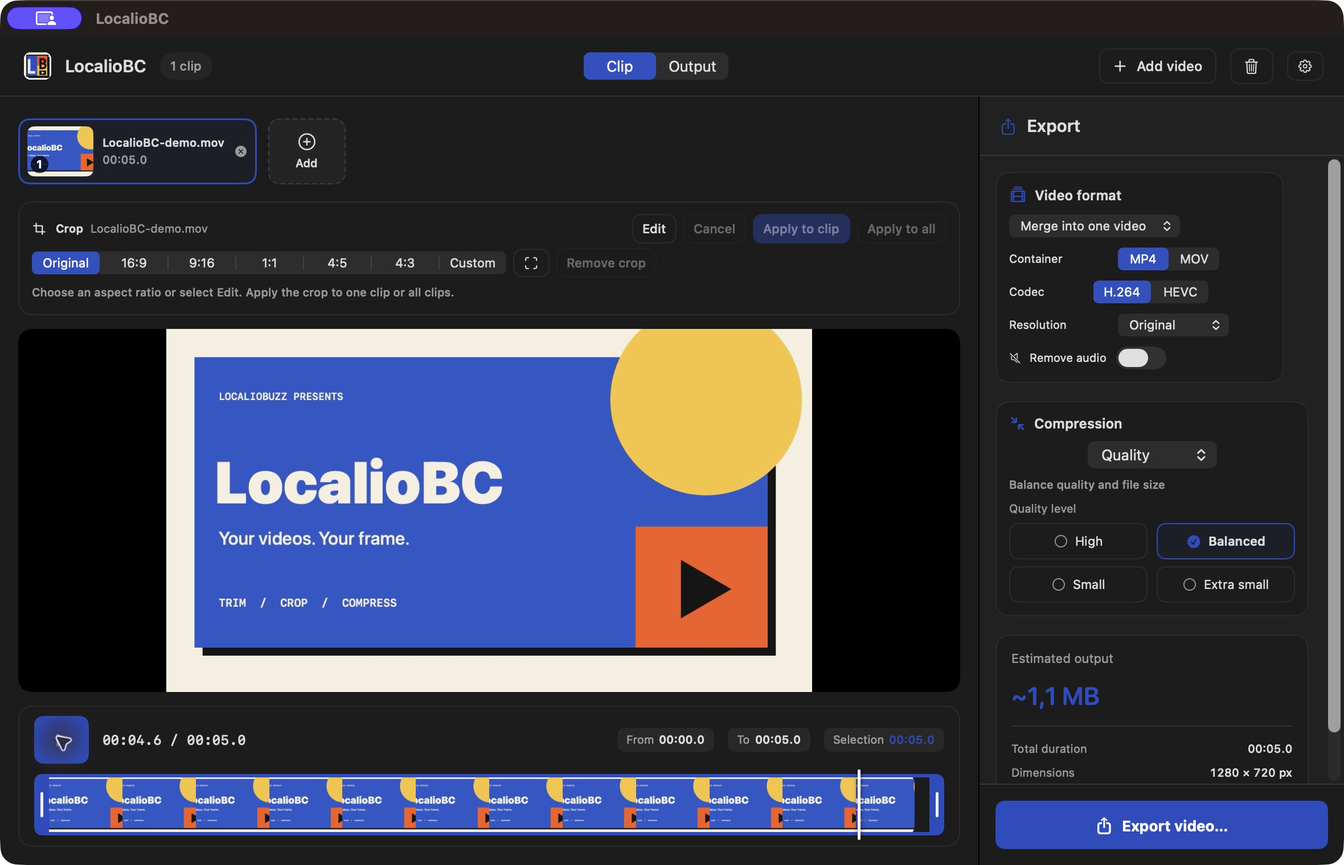
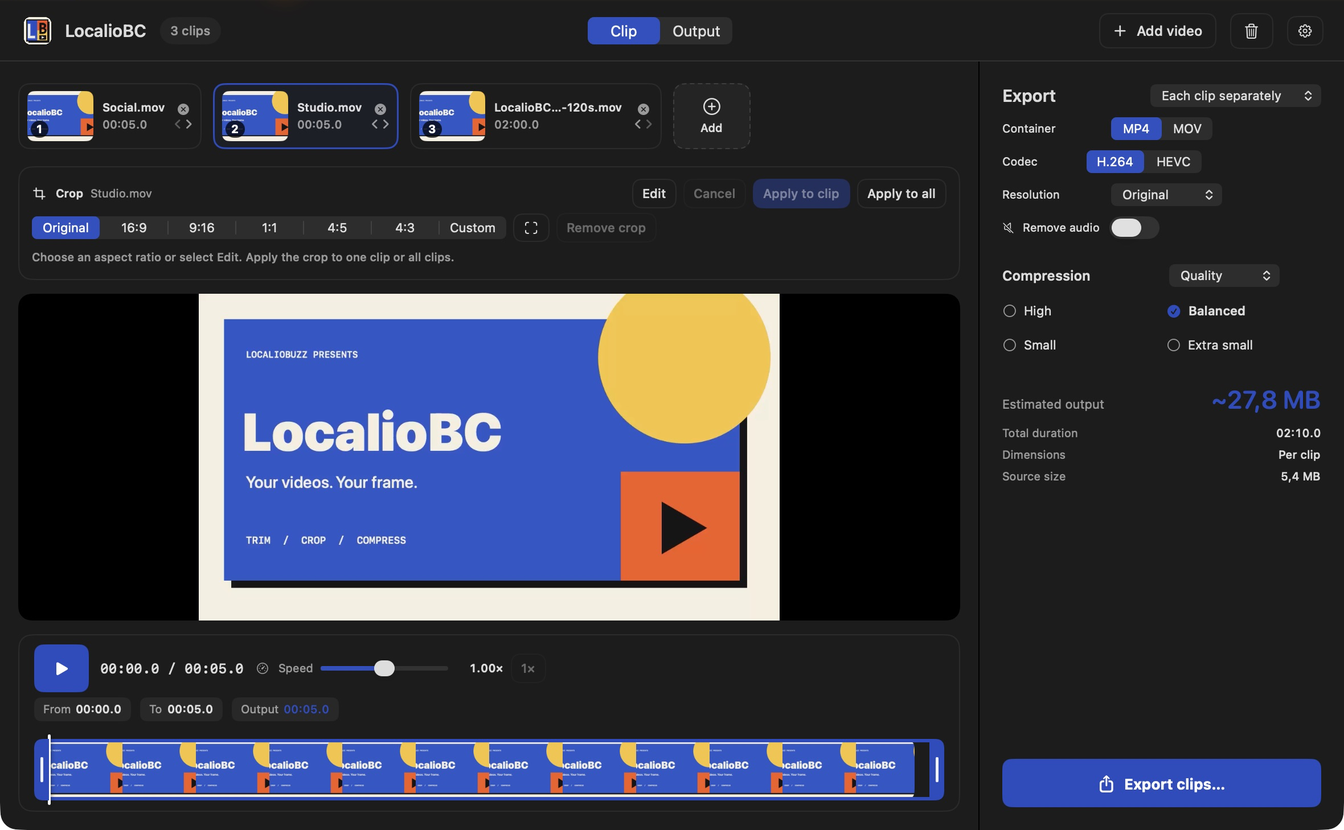
Publish 1.2.1 website and signed update feed

diff --git a/website/public/cs/index.html b/website/public/cs/index.html
@@ -1,1 +1,1 @@
-<!doctype html><html lang="cs"><head><meta charset="utf-8"><meta name="viewport" content="width=device-width,initial-scale=1"><title>LocalioBC — LocalioBC</title><meta name="description" content="Jednoduché a rychlé řešení pro ořez videa na Macu. Otevřete klip, vyberte výřez a exportujte. Podle potřeby video také zkraťte, zmenšete nebo spojte s dalšími klipy."><link rel="canonical" href="https://localiobc.mylocalio.com/cs/"><link rel="icon" href="/icon.png"><link rel="stylesheet" href="/style.css?v=64182aa29f"><script src="/motion.js?v=d87bd766ba" defer></script><link rel="stylesheet" href="/analytics.css"><script src="/analytics.js" defer></script></head><body><header><a class="brand" href="/cs/"><img src="/icon.png" alt="" width="44" height="44">LocalioBC</a><nav aria-label="Navigation"><a href="/cs/support/">Podpora</a><a href="/cs/privacy/">Soukromí</a><div class="language-switcher" role="group" aria-label="Jazyk"><a class="language-link" href="/" hreflang="en" lang="en" aria-label="English" title="English"><img src="/flag-gb.svg" alt="" width="24" height="16"><span class="sr-only">English</span></a><a class="language-link" href="/cs/" hreflang="cs" lang="cs" aria-label="Čeština" title="Čeština" aria-current="page"><img src="/flag-cz.svg" alt="" width="24" height="16"><span class="sr-only">Čeština</span></a></div></nav></header><main><section class="hero"><div class="hero-content"><span class="eyebrow">Vytvořeno pro váš Mac</span><h1>Rychlý ořez videa.<br>Bez složitostí.</h1><p class="lead">Jednoduché a rychlé řešení pro ořez videa na Macu. Otevřete klip, vyberte výřez a exportujte. Podle potřeby video také zkraťte, zmenšete nebo spojte s dalšími klipy.</p><a class="button" href="https://github.com/bradacz/LocalioBC/releases/download/v1.2.0/LocalioBC-1.2.0-universal.dmg">Stažení plné verze zdarma</a><p class="full-version-note">Všechny funkce jsou dostupné zdarma, bez časových limitů, placeného odemykání a vodoznaků.</p><p class="fine">Verze 1.2.0 · macOS 14 a novější · Apple Silicon i Intel · Bez předplatného</p><p class="fine">Verze pro Mac App Store: 4,99 € jednorázově. Připravujeme; schválení Applem zatím neproběhlo.</p></div><img class="hero-art" src="/hero-cut-crop.webp" srcset="/hero-cut-crop-600.webp 600w, /hero-cut-crop.webp 1200w" sizes="(max-width: 700px) calc(100vw - 44px), (max-width: 752px) calc(100vw - 72px), (max-width: 1000px) 680px, (max-width: 1240px) 58vw, 678px" width="1200" height="1200" alt="" aria-hidden="true" fetchpriority="high" decoding="async"></section><img class="screen" src="/editor-preview.png?v=e37b4abd8f" loading="lazy" decoding="async" alt="Anglické rozhraní LocalioBC s náhledem videa, ořezem a nastavením exportu" width="2584" height="1744"><section class="grid" aria-labelledby="features-title"><h2 id="features-title" class="sr-only">Co aplikace umí</h2><article class="feature"><span class="number">01</span><h3>Přesný střih</h3><p>Nastavte začátek a konec každého klipu pomocí časové osy s náhledy.</p></article><article class="feature"><span class="number">02</span><h3>Správný výřez</h3><p>Vyberte poměr stran nebo vlastní výřez. Stejný ořez můžete použít na všechny klipy.</p></article><article class="feature"><span class="number">03</span><h3>Export podle vás</h3><p>Spojte klipy nebo vytvořte samostatné očíslované soubory. MP4/MOV, H.264/HEVC a volba kvality či cílové velikosti.</p></article></section><section class="release-news" aria-labelledby="news-title"><div class="news-heading"><h2 id="news-title">Novinky</h2><span class="release-tag">LocalioBC 1.2.0</span></div><article class="release-card"><div class="release-meta"><time datetime="2026-11-15">15. listopadu 2026</time><span>Nová verze</span></div><h3>Rychlost pod kontrolou. Aktualizace snadno.</h3><p>Rychlost nastavíte plynulým posuvníkem od 0,25× do 4×; tlačítko 1× ji vrátí na původní hodnotu. Bezplatná verze stažená z webu nově nabízí volitelné aktualizace přímo v aplikaci.</p><ul><li>Povolte denní kontroly aktualizací, nebo kdykoli zvolte LocalioBC → Zkontrolovat aktualizace…</li><li>Automatické stahování je volitelné. Instalace počká během exportu a před zahozením rozpracovaných úprav si vyžádá potvrzení.</li><li>Verze z Mac App Storu dostává aktualizace prostřednictvím Apple.</li></ul><p class="fine">Používáte verzi 1.1.0 nebo starší? Stáhněte a nainstalujte 1.2.0 jednou ručně. Starší verze nemají zabudovaný aktualizátor; další aktualizace pak můžete přijímat přímo v aplikaci.</p><a class="release-link" href="https://github.com/bradacz/LocalioBC/releases/download/v1.2.0/LocalioBC-1.2.0-universal.dmg">Stáhnout verzi 1.2.0 <span aria-hidden="true">↗</span></a></article><article class="release-card"><div class="release-meta"><time datetime="2026-11-14">14. listopadu 2026</time><span>Verze 1.1.0</span></div><h3>Vaše video, vaším tempem.</h3><p>Zpomalte důležitý okamžik nebo zrychlete delší záběr. U každého klipu nově nastavíte rychlost od 0,25× do 4× přímo vedle přehrávání.</p><ul><li>Stejná rychlost v náhledu i v exportovaném videu.</li><li>Obraz i zvuk zůstávají synchronizované; tón zvuku se mění s rychlostí.</li><li>Výsledná délka a odhad velikosti se průběžně přepočítají.</li></ul><a class="release-link" href="https://github.com/bradacz/LocalioBC/releases/download/v1.1.0/LocalioBC-1.1.0-universal.dmg">Stáhnout verzi 1.1.0 <span aria-hidden="true">↗</span></a></article></section><section class="notice"><h2 style="margin-top:0">Vaše videa zůstávají vaše</h2><p>Bez účtu, nahrávání na server, reklam a vodoznaků. LocalioBC funguje offline. Český systém automaticky použije češtinu, ostatní jazyky angličtinu. Volbu můžete změnit v nastavení.</p><a href="/cs/privacy/">Zásady ochrany soukromí</a></section></main><footer><span>© 2026 Localio Labs s.r.o. · LocalioBC</span><span><a href="mailto:info@mylocalio.com">info@mylocalio.com</a> · <a href="https://mylocalio.com">MyLocalio</a> · <a href="https://www.localiobuzz.com">LocalioBuzz</a> · <a href="https://github.com/bradacz/LocalioBC">GitHub</a></span></footer></body></html>
+<!doctype html><html lang="cs"><head><meta charset="utf-8"><meta name="viewport" content="width=device-width,initial-scale=1"><title>LocalioBC — LocalioBC</title><meta name="description" content="Jednoduché a rychlé řešení pro ořez videa na Macu. Otevřete klip, vyberte výřez a exportujte. Podle potřeby video také zkraťte, zmenšete nebo spojte s dalšími klipy."><link rel="canonical" href="https://localiobc.mylocalio.com/cs/"><link rel="icon" href="/icon.png"><link rel="stylesheet" href="/style.css?v=64182aa29f"><script src="/motion.js?v=d87bd766ba" defer></script><link rel="stylesheet" href="/analytics.css"><script src="/analytics.js" defer></script></head><body><header><a class="brand" href="/cs/"><img src="/icon.png" alt="" width="44" height="44">LocalioBC</a><nav aria-label="Navigation"><a href="/cs/support/">Podpora</a><a href="/cs/privacy/">Soukromí</a><div class="language-switcher" role="group" aria-label="Jazyk"><a class="language-link" href="/" hreflang="en" lang="en" aria-label="English" title="English"><img src="/flag-gb.svg" alt="" width="24" height="16"><span class="sr-only">English</span></a><a class="language-link" href="/cs/" hreflang="cs" lang="cs" aria-label="Čeština" title="Čeština" aria-current="page"><img src="/flag-cz.svg" alt="" width="24" height="16"><span class="sr-only">Čeština</span></a></div></nav></header><main><section class="hero"><div class="hero-content"><span class="eyebrow">Vytvořeno pro váš Mac</span><h1>Rychlý ořez videa.<br>Bez složitostí.</h1><p class="lead">Jednoduché a rychlé řešení pro ořez videa na Macu. Otevřete klip, vyberte výřez a exportujte. Podle potřeby video také zkraťte, zmenšete nebo spojte s dalšími klipy.</p><a class="button" href="https://github.com/bradacz/LocalioBC/releases/download/v1.2.1/LocalioBC-1.2.1-universal.dmg">Stažení plné verze zdarma</a><p class="full-version-note">Všechny funkce jsou dostupné zdarma, bez časových limitů, placeného odemykání a vodoznaků.</p><p class="fine">Verze 1.2.1 · macOS 14 a novější · Apple Silicon i Intel · Bez předplatného</p><p class="fine">Verze pro Mac App Store: 4,99 € jednorázově. Připravujeme; schválení Applem zatím neproběhlo.</p></div><img class="hero-art" src="/hero-cut-crop.webp" srcset="/hero-cut-crop-600.webp 600w, /hero-cut-crop.webp 1200w" sizes="(max-width: 700px) calc(100vw - 44px), (max-width: 752px) calc(100vw - 72px), (max-width: 1000px) 680px, (max-width: 1240px) 58vw, 678px" width="1200" height="1200" alt="" aria-hidden="true" fetchpriority="high" decoding="async"></section><img class="screen" src="/editor-preview.png?v=1.2.1" loading="lazy" decoding="async" alt="České rozhraní LocalioBC s náhledem videa, ořezem a nastavením exportu" width="2360" height="1458"><section class="grid" aria-labelledby="features-title"><h2 id="features-title" class="sr-only">Co aplikace umí</h2><article class="feature"><span class="number">01</span><h3>Přesný střih</h3><p>Nastavte začátek a konec každého klipu pomocí časové osy s náhledy.</p></article><article class="feature"><span class="number">02</span><h3>Správný výřez</h3><p>Vyberte poměr stran nebo vlastní výřez. Stejný ořez můžete použít na všechny klipy.</p></article><article class="feature"><span class="number">03</span><h3>Export podle vás</h3><p>Spojte klipy nebo vytvořte samostatné očíslované soubory. MP4/MOV, H.264/HEVC a volba kvality či cílové velikosti.</p></article></section><section class="release-news" aria-labelledby="news-title"><div class="news-heading"><h2 id="news-title">Novinky</h2><span class="release-tag">LocalioBC 1.2.1</span></div><article class="release-card"><div class="release-meta"><time datetime="2026-11-15">15. listopadu 2026</time><span>Nová verze</span></div><h3>Čistší a přehlednější export.</h3><p>Formát, komprese, odhad velikosti i tlačítko exportu jsou společně v jednoduchém, vzdušném panelu.</p><ul><li>Přehledné rozestupy a čitelné popisky usnadňují orientaci.</li><li>Všechny volby exportu zůstávají viditelné bez posouvání i při nejmenší velikosti okna.</li><li>Jednotné uspořádání v češtině i angličtině, ve světlém i tmavém vzhledu.</li></ul><p class="fine">Používáte 1.2.0? Zvolte LocalioBC → Zkontrolovat aktualizace… Pokud máte 1.1.0 nebo starší, stáhněte a nainstalujte 1.2.1 jednou ručně; další aktualizace pak můžete přijímat přímo v aplikaci.</p><a class="release-link" href="https://github.com/bradacz/LocalioBC/releases/download/v1.2.1/LocalioBC-1.2.1-universal.dmg">Stáhnout verzi 1.2.1 <span aria-hidden="true">↗</span></a></article><article class="release-card"><div class="release-meta"><time datetime="2026-11-15">15. listopadu 2026</time><span>Verze 1.2.0</span></div><h3>Rychlost pod kontrolou. Aktualizace snadno.</h3><p>Rychlost nastavíte plynulým posuvníkem od 0,25× do 4×; tlačítko 1× ji vrátí na původní hodnotu. Bezplatná verze stažená z webu nově nabízí volitelné aktualizace přímo v aplikaci.</p><ul><li>Povolte denní kontroly aktualizací, nebo kdykoli zvolte LocalioBC → Zkontrolovat aktualizace…</li><li>Automatické stahování je volitelné. Instalace počká během exportu a před zahozením rozpracovaných úprav si vyžádá potvrzení.</li><li>Verze z Mac App Storu dostává aktualizace prostřednictvím Apple.</li></ul><p class="fine">Používáte verzi 1.1.0 nebo starší? Stáhněte a nainstalujte 1.2.0 jednou ručně. Starší verze nemají zabudovaný aktualizátor; další aktualizace pak můžete přijímat přímo v aplikaci.</p><a class="release-link" href="https://github.com/bradacz/LocalioBC/releases/download/v1.2.0/LocalioBC-1.2.0-universal.dmg">Stáhnout verzi 1.2.0 <span aria-hidden="true">↗</span></a></article><article class="release-card"><div class="release-meta"><time datetime="2026-11-14">14. listopadu 2026</time><span>Verze 1.1.0</span></div><h3>Vaše video, vaším tempem.</h3><p>Zpomalte důležitý okamžik nebo zrychlete delší záběr. U každého klipu nově nastavíte rychlost od 0,25× do 4× přímo vedle přehrávání.</p><ul><li>Stejná rychlost v náhledu i v exportovaném videu.</li><li>Obraz i zvuk zůstávají synchronizované; tón zvuku se mění s rychlostí.</li><li>Výsledná délka a odhad velikosti se průběžně přepočítají.</li></ul><a class="release-link" href="https://github.com/bradacz/LocalioBC/releases/download/v1.1.0/LocalioBC-1.1.0-universal.dmg">Stáhnout verzi 1.1.0 <span aria-hidden="true">↗</span></a></article></section><section class="notice"><h2 style="margin-top:0">Vaše videa zůstávají vaše</h2><p>Bez účtu, nahrávání na server, reklam a vodoznaků. LocalioBC funguje offline. Český systém automaticky použije češtinu, ostatní jazyky angličtinu. Volbu můžete změnit v nastavení.</p><a href="/cs/privacy/">Zásady ochrany soukromí</a></section></main><footer><span>© 2026 Localio Labs s.r.o. · LocalioBC</span><span><a href="mailto:info@mylocalio.com">info@mylocalio.com</a> · <a href="https://mylocalio.com">MyLocalio</a> · <a href="https://www.localiobuzz.com">LocalioBuzz</a> · <a href="https://github.com/bradacz/LocalioBC">GitHub</a></span></footer></body></html>

diff --git a/website/public/index.html b/website/public/index.html
@@ -1,1 +1,1 @@
-<!doctype html><html lang="en"><head><meta name="google-site-verification" content="hdwgwZXomSelE7Z3OD8sIeKytn7xXKj9p7vyfUrVinE"><meta charset="utf-8"><meta name="viewport" content="width=device-width,initial-scale=1"><title>LocalioBC — LocalioBC</title><meta name="description" content="A simple, quick way to crop video on your Mac. Open a clip, pick the frame and export. Trim, compress or combine your clips when you need more."><link rel="canonical" href="https://localiobc.mylocalio.com/"><link rel="icon" href="/icon.png"><link rel="stylesheet" href="/style.css?v=64182aa29f"><script src="/motion.js?v=d87bd766ba" defer></script><link rel="stylesheet" href="/analytics.css"><script src="/analytics.js" defer></script></head><body><header><a class="brand" href="/"><img src="/icon.png" alt="" width="44" height="44">LocalioBC</a><nav aria-label="Navigation"><a href="/support/">Support</a><a href="/privacy/">Privacy</a><div class="language-switcher" role="group" aria-label="Language"><a class="language-link" href="/" hreflang="en" lang="en" aria-label="English" title="English" aria-current="page"><img src="/flag-gb.svg" alt="" width="24" height="16"><span class="sr-only">English</span></a><a class="language-link" href="/cs/" hreflang="cs" lang="cs" aria-label="Čeština" title="Čeština"><img src="/flag-cz.svg" alt="" width="24" height="16"><span class="sr-only">Čeština</span></a></div></nav></header><main><section class="hero"><div class="hero-content"><span class="eyebrow">Made for your Mac</span><h1>Quick video crops.<br>Made simple.</h1><p class="lead">A simple, quick way to crop video on your Mac. Open a clip, pick the frame and export. Trim, compress or combine your clips when you need more.</p><a class="button" href="https://github.com/bradacz/LocalioBC/releases/download/v1.2.0/LocalioBC-1.2.0-universal.dmg">Download the full version free</a><p class="full-version-note">All features are included free, with no time limits, paid unlocks or watermarks.</p><p class="fine">Version 1.2.0 · macOS 14 or later · Apple Silicon & Intel · No subscription</p><p class="fine">Mac App Store edition: €4.99, one-time purchase. Coming soon; Apple review is pending.</p></div><img class="hero-art" src="/hero-cut-crop.webp" srcset="/hero-cut-crop-600.webp 600w, /hero-cut-crop.webp 1200w" sizes="(max-width: 700px) calc(100vw - 44px), (max-width: 752px) calc(100vw - 72px), (max-width: 1000px) 680px, (max-width: 1240px) 58vw, 678px" width="1200" height="1200" alt="" aria-hidden="true" fetchpriority="high" decoding="async"></section><img class="screen" src="/editor-preview.png?v=e37b4abd8f" loading="lazy" decoding="async" alt="LocalioBC video editor — English interface" width="2584" height="1744"><section class="grid" aria-labelledby="features-title"><h2 id="features-title" class="sr-only">What you can do</h2><article class="feature"><span class="number">01</span><h3>Trim precisely</h3><p>Set the start and end of each clip with a thumbnail timeline and accurate seeking.</p></article><article class="feature"><span class="number">02</span><h3>Find the right frame</h3><p>Choose common aspect ratios or a custom crop. Apply the same crop to every clip.</p></article><article class="feature"><span class="number">03</span><h3>Export your way</h3><p>Combine clips or create separate numbered files. Choose MP4/MOV, H.264/HEVC and quality or target-size settings.</p></article></section><section class="release-news" aria-labelledby="news-title"><div class="news-heading"><h2 id="news-title">What’s new</h2><span class="release-tag">LocalioBC 1.2.0</span></div><article class="release-card"><div class="release-meta"><time datetime="2026-11-15">November 15, 2026</time><span>New release</span></div><h3>Precise speed. Updates made easy.</h3><p>Dial in the exact pace with a continuous 0.25×–4× speed slider, or return to normal with 1×. The free direct-download edition now includes optional updates powered by Sparkle.</p><ul><li>Opt in to daily update checks, or use LocalioBC → Check for Updates… whenever you choose.</li><li>Automatic downloads are optional. Installation waits during exports and asks before discarding open session edits.</li><li>The Mac App Store edition receives its updates through Apple.</li></ul><p class="fine">Using 1.1.0 or earlier? Download and install 1.2.0 once manually. Those versions have no built-in updater; you can receive later updates directly in the app.</p><a class="release-link" href="https://github.com/bradacz/LocalioBC/releases/download/v1.2.0/LocalioBC-1.2.0-universal.dmg">Download version 1.2.0 <span aria-hidden="true">↗</span></a></article><article class="release-card"><div class="release-meta"><time datetime="2026-11-14">November 14, 2026</time><span>Version 1.1.0</span></div><h3>Your video, at your pace.</h3><p>Slow down an important moment or speed up a longer shot. Set each clip’s speed from 0.25× to 4×, right beside the playback controls.</p><ul><li>The same speed in the preview and exported video.</li><li>Picture and sound stay in sync; audio pitch changes with speed.</li><li>Output duration and estimated file size update as you edit.</li></ul><a class="release-link" href="https://github.com/bradacz/LocalioBC/releases/download/v1.1.0/LocalioBC-1.1.0-universal.dmg">Download version 1.1.0 <span aria-hidden="true">↗</span></a></article></section><section class="notice"><h2 style="margin-top:0">Your media stays yours</h2><p>No account, uploads, ads or watermarks. LocalioBC works offline. Language follows your system: Czech for Czech systems, English for other languages. You can change it in Settings.</p><a href="/privacy/">Privacy Policy</a></section></main><footer><span>© 2026 Localio Labs s.r.o. · LocalioBC</span><span><a href="mailto:info@mylocalio.com">info@mylocalio.com</a> · <a href="https://mylocalio.com">MyLocalio</a> · <a href="https://www.localiobuzz.com">LocalioBuzz</a> · <a href="https://github.com/bradacz/LocalioBC">GitHub</a></span></footer></body></html>
+<!doctype html><html lang="en"><head><meta name="google-site-verification" content="hdwgwZXomSelE7Z3OD8sIeKytn7xXKj9p7vyfUrVinE"><meta charset="utf-8"><meta name="viewport" content="width=device-width,initial-scale=1"><title>LocalioBC — LocalioBC</title><meta name="description" content="A simple, quick way to crop video on your Mac. Open a clip, pick the frame and export. Trim, compress or combine your clips when you need more."><link rel="canonical" href="https://localiobc.mylocalio.com/"><link rel="icon" href="/icon.png"><link rel="stylesheet" href="/style.css?v=64182aa29f"><script src="/motion.js?v=d87bd766ba" defer></script><link rel="stylesheet" href="/analytics.css"><script src="/analytics.js" defer></script></head><body><header><a class="brand" href="/"><img src="/icon.png" alt="" width="44" height="44">LocalioBC</a><nav aria-label="Navigation"><a href="/support/">Support</a><a href="/privacy/">Privacy</a><div class="language-switcher" role="group" aria-label="Language"><a class="language-link" href="/" hreflang="en" lang="en" aria-label="English" title="English" aria-current="page"><img src="/flag-gb.svg" alt="" width="24" height="16"><span class="sr-only">English</span></a><a class="language-link" href="/cs/" hreflang="cs" lang="cs" aria-label="Čeština" title="Čeština"><img src="/flag-cz.svg" alt="" width="24" height="16"><span class="sr-only">Čeština</span></a></div></nav></header><main><section class="hero"><div class="hero-content"><span class="eyebrow">Made for your Mac</span><h1>Quick video crops.<br>Made simple.</h1><p class="lead">A simple, quick way to crop video on your Mac. Open a clip, pick the frame and export. Trim, compress or combine your clips when you need more.</p><a class="button" href="https://github.com/bradacz/LocalioBC/releases/download/v1.2.1/LocalioBC-1.2.1-universal.dmg">Download the full version free</a><p class="full-version-note">All features are included free, with no time limits, paid unlocks or watermarks.</p><p class="fine">Version 1.2.1 · macOS 14 or later · Apple Silicon & Intel · No subscription</p><p class="fine">Mac App Store edition: €4.99, one-time purchase. Coming soon; Apple review is pending.</p></div><img class="hero-art" src="/hero-cut-crop.webp" srcset="/hero-cut-crop-600.webp 600w, /hero-cut-crop.webp 1200w" sizes="(max-width: 700px) calc(100vw - 44px), (max-width: 752px) calc(100vw - 72px), (max-width: 1000px) 680px, (max-width: 1240px) 58vw, 678px" width="1200" height="1200" alt="" aria-hidden="true" fetchpriority="high" decoding="async"></section><img class="screen" src="/editor-preview.png?v=1.2.1" loading="lazy" decoding="async" alt="LocalioBC video editor — Czech interface" width="2360" height="1458"><section class="grid" aria-labelledby="features-title"><h2 id="features-title" class="sr-only">What you can do</h2><article class="feature"><span class="number">01</span><h3>Trim precisely</h3><p>Set the start and end of each clip with a thumbnail timeline and accurate seeking.</p></article><article class="feature"><span class="number">02</span><h3>Find the right frame</h3><p>Choose common aspect ratios or a custom crop. Apply the same crop to every clip.</p></article><article class="feature"><span class="number">03</span><h3>Export your way</h3><p>Combine clips or create separate numbered files. Choose MP4/MOV, H.264/HEVC and quality or target-size settings.</p></article></section><section class="release-news" aria-labelledby="news-title"><div class="news-heading"><h2 id="news-title">What’s new</h2><span class="release-tag">LocalioBC 1.2.1</span></div><article class="release-card"><div class="release-meta"><time datetime="2026-11-15">November 15, 2026</time><span>New release</span></div><h3>A cleaner, clearer export panel.</h3><p>Format, compression, file-size estimates and the export action sit together in a simple, open layout.</p><ul><li>Clear spacing and readable labels keep the controls easy to scan.</li><li>Export controls stay visible without scrolling, even at the minimum window size.</li><li>A consistent layout in English and Czech, in light and dark appearance.</li></ul><p class="fine">Using 1.2.0? Choose LocalioBC → Check for Updates… to get this release. If you use 1.1.0 or earlier, download and install 1.2.1 manually once to receive future updates in the app.</p><a class="release-link" href="https://github.com/bradacz/LocalioBC/releases/download/v1.2.1/LocalioBC-1.2.1-universal.dmg">Download version 1.2.1 <span aria-hidden="true">↗</span></a></article><article class="release-card"><div class="release-meta"><time datetime="2026-11-15">November 15, 2026</time><span>Version 1.2.0</span></div><h3>Precise speed. Updates made easy.</h3><p>Dial in the exact pace with a continuous 0.25×–4× speed slider, or return to normal with 1×. The free direct-download edition now includes optional updates powered by Sparkle.</p><ul><li>Opt in to daily update checks, or use LocalioBC → Check for Updates… whenever you choose.</li><li>Automatic downloads are optional. Installation waits during exports and asks before discarding open session edits.</li><li>The Mac App Store edition receives its updates through Apple.</li></ul><p class="fine">Using 1.1.0 or earlier? Download and install 1.2.0 once manually. Those versions have no built-in updater; you can receive later updates directly in the app.</p><a class="release-link" href="https://github.com/bradacz/LocalioBC/releases/download/v1.2.0/LocalioBC-1.2.0-universal.dmg">Download version 1.2.0 <span aria-hidden="true">↗</span></a></article><article class="release-card"><div class="release-meta"><time datetime="2026-11-14">November 14, 2026</time><span>Version 1.1.0</span></div><h3>Your video, at your pace.</h3><p>Slow down an important moment or speed up a longer shot. Set each clip’s speed from 0.25× to 4×, right beside the playback controls.</p><ul><li>The same speed in the preview and exported video.</li><li>Picture and sound stay in sync; audio pitch changes with speed.</li><li>Output duration and estimated file size update as you edit.</li></ul><a class="release-link" href="https://github.com/bradacz/LocalioBC/releases/download/v1.1.0/LocalioBC-1.1.0-universal.dmg">Download version 1.1.0 <span aria-hidden="true">↗</span></a></article></section><section class="notice"><h2 style="margin-top:0">Your media stays yours</h2><p>No account, uploads, ads or watermarks. LocalioBC works offline. Language follows your system: Czech for Czech systems, English for other languages. You can change it in Settings.</p><a href="/privacy/">Privacy Policy</a></section></main><footer><span>© 2026 Localio Labs s.r.o. · LocalioBC</span><span><a href="mailto:info@mylocalio.com">info@mylocalio.com</a> · <a href="https://mylocalio.com">MyLocalio</a> · <a href="https://www.localiobuzz.com">LocalioBuzz</a> · <a href="https://github.com/bradacz/LocalioBC">GitHub</a></span></footer></body></html>

diff --git a/website/README.md b/website/README.md
@@ -31,7 +31,7 @@ Only records for the new `localiobc` hostname were added in the mylocalio.com Cl
 
 The two TXT records above belong to the historical Sites hosting. Do not remove unrelated DNS records. Verify the Pages custom-domain status and HTTPS after cutover.
 
-The page advertises the App Store edition as coming soon at EUR 4.99. App Store Connect was rechecked on 15 November 2026 at 00:39 CET: Store version 1.2.0 (6) was submitted at 00:38 CET and is Waiting for Review with manual release. It replaces the withdrawn 1.0.0 (3) submission. See [Store status](../AppStore/STATUS.md). It links to the full free direct download, explicitly stating that all features are included with no time limits, paid unlocks or watermarks. A GitHub source link is available in the footer. Add a genuine App Store product URL after Apple approves and releases the listing; do not insert a guessed app ID or non-working store badge.
+The page advertises the App Store edition as coming soon at EUR 4.99. Version 1.2.1 (7) was uploaded on 15 November 2026 at 01:17 CET; processing and replacement of the pending 1.2.0 (6) submission are in progress. A new review submission has not yet been verified. Release remains manual after Apple approval. See [Store status](../AppStore/STATUS.md) for the latest verified state. It links to the full free direct download, explicitly stating that all features are included with no time limits, paid unlocks or watermarks. A GitHub source link is available in the footer. Add a genuine App Store product URL after Apple approves and releases the listing; do not insert a guessed app ID or non-working store badge.
 
 ## Scroll effects
 
@@ -47,7 +47,7 @@ The production CNAME points to localiobc-web.pages.dev. Cloudflare domain and ce
 
 ## Release news
 
-Both homepages lead with LocalioBC 1.2.0, dated 15 November 2026: a continuous 0.25×–4× speed slider with a 1× reset, optional Sparkle update checks for the direct edition, optional automatic downloads, and installation safeguards for exports and in-memory edits. The primary CTA and latest article link to the 1.2.0 universal DMG on GitHub Releases. Version 1.1.0 remains as release history with its original download link. Users of 1.1.0 or earlier must install 1.2.0 manually once to gain the updater. Publish only after the signed, notarized release asset and signed update feed are available.
+The public [GitHub release 1.2.1](https://github.com/bradacz/LocalioBC/releases/tag/v1.2.1), build 7, is available as of 15 November 2026. Anonymous download of the signed, notarized universal DMG was verified against the final package SHA-256. Both homepages introduce its clean, compact export panel with readable labels and controls visible without scrolling at the default and minimum window sizes. Format, compression, estimates and export share one continuous surface without nested frames or darker section fills. The primary CTA and latest article link to the 1.2.1 universal DMG. The current native Czech editor capture is served as `editor-preview.png?v=1.2.1`, with matching 2360 × 1458 HTML dimensions; only the native title bar was cropped. The README uses the corresponding current English capture. Versions 1.2.0 and 1.1.0 remain as release history with their original download links. Users of 1.2.0 can update in the app; users of 1.1.0 or earlier can install 1.2.1 manually once to gain the updater. The signed feed includes 1.2.1 (7) and preserves 1.2.0 (6); the website build was checked to preserve its exact bytes. Publish the feed only after the referenced release asset is publicly available, then verify served bytes and signatures after deployment.
 
 The English and Czech privacy pages distinguish local offline editing from optional update connections. They identify Cloudflare and GitHub Releases, explain ordinary connection logs (including IP address and version-bearing User-Agent), and state that no system profile, clip data or media files are sent. The macOS app contains no analytics SDK. App Store updates remain Apple's responsibility; Sparkle is absent from that edition. Do not promise hosting-provider log retention periods.
 
